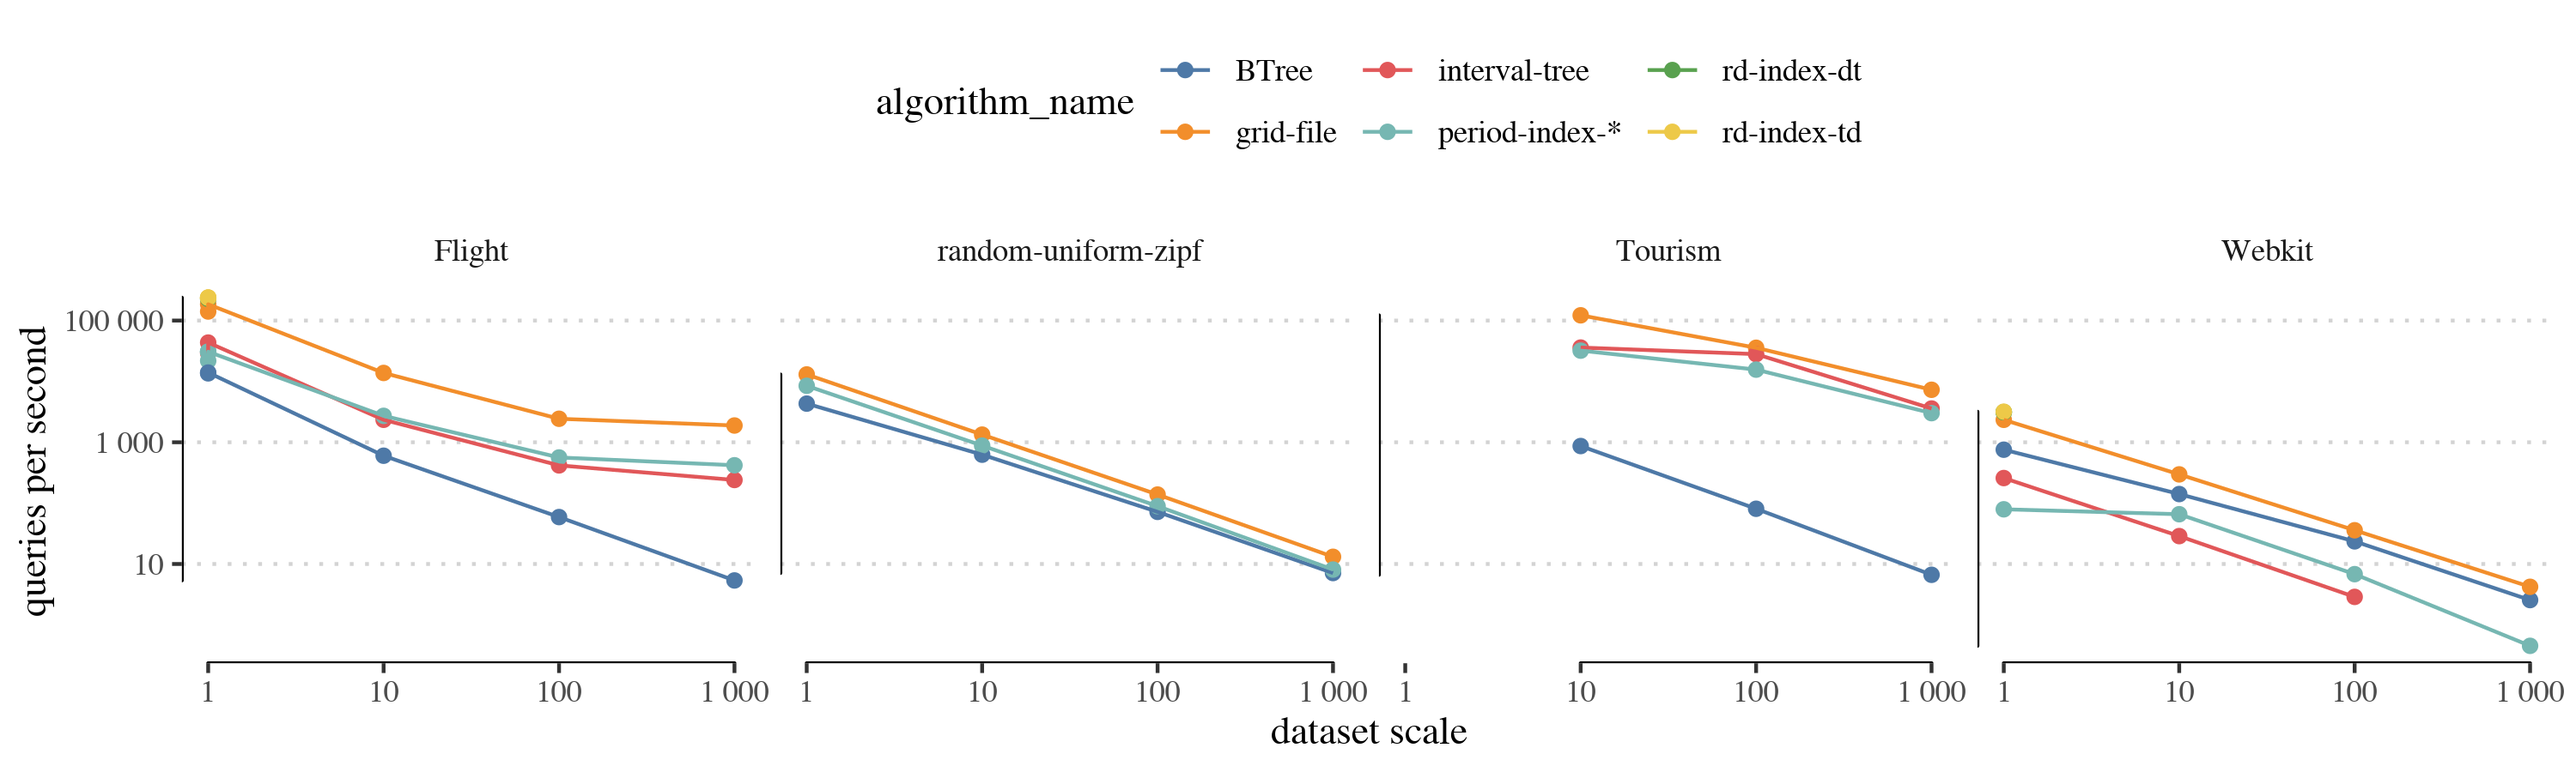
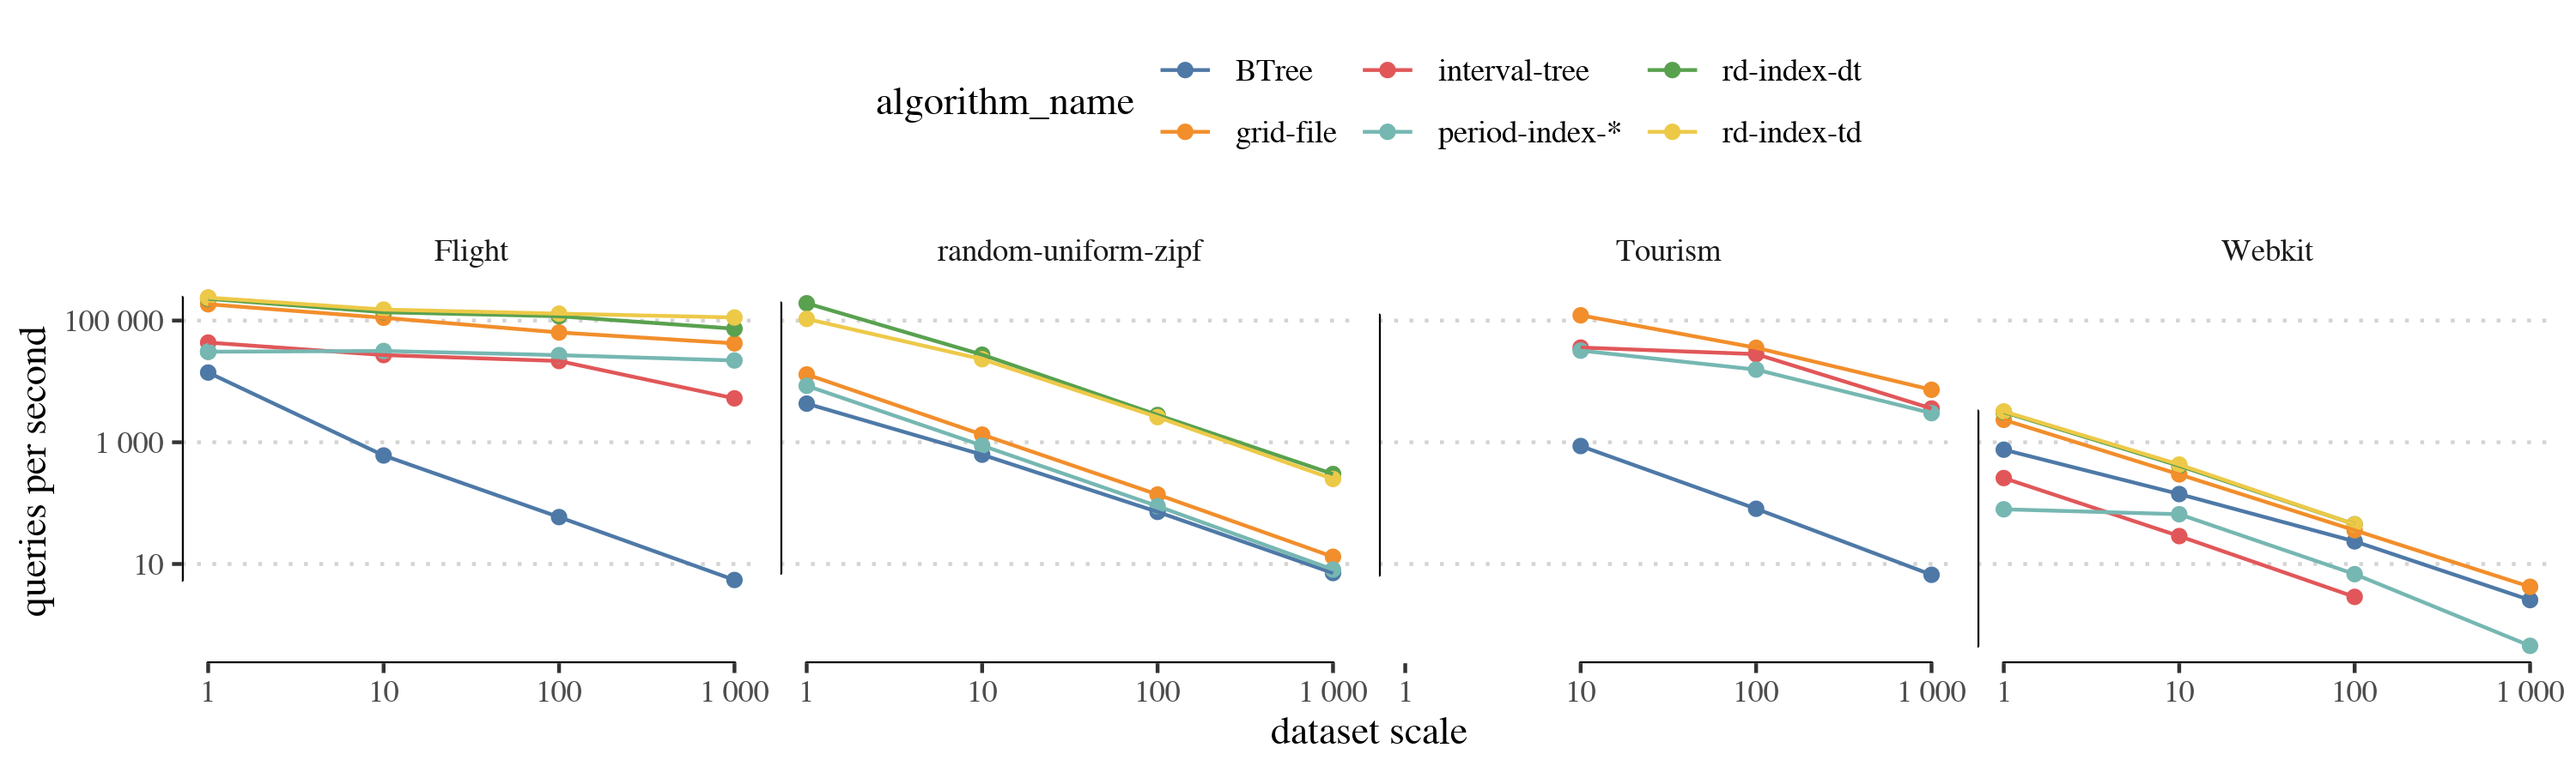
Update the observations on dimension ordering

diff --git a/paper/temporal-index.tex b/paper/temporal-index.tex
@@ -45,11 +45,19 @@
 \newcommand{\argmax}{\operatorname{argmax}}
 \newcommand{\argmin}{\operatorname{argmin}}
 
+% \definecolor{firstcolor}{HTML}{FDE725}
+% \definecolor{secondcolor}{HTML}{5DC863}
+% \definecolor{thirdcolor}{HTML}{21908C}
+% \definecolor{fourthcolor}{HTML}{3B528B}
+% \definecolor{fifthcolor}{HTML}{440154}
+
+
 \definecolor{firstcolor}{HTML}{FDE725}
-\definecolor{secondcolor}{HTML}{5DC863}
-\definecolor{thirdcolor}{HTML}{21908C}
-\definecolor{fourthcolor}{HTML}{3B528B}
-\definecolor{fifthcolor}{HTML}{440154}
+\definecolor{secondcolor}{HTML}{7AD151}
+\definecolor{thirdcolor}{HTML}{22A884}
+\definecolor{fourthcolor}{HTML}{2A788E}
+\definecolor{fifthcolor}{HTML}{414487}
+\definecolor{sixthcolor}{HTML}{440154}
 
 %%%%%%%%%%%%%%%%%%%%%%%%%%%%%%%%%%%%%%%%%%%%%%%%%%%%%%%%%%%%%%%%%%%%%%%%%%%%%%%%%
 
@@ -709,7 +717,7 @@ supported by our index structure.
 In this analysis we assume that the index is built by partitioning first in the time dimension,
 and then in the duration dimension.
 The choice of the order of this partitioning affects the practical performance, as we will discuss
-in Section~\ref{sec:experiments}.
+in Section~\ref{sec:experiments} (Figure~\ref{fig:param-dependency}).
 Nonetheless, the results in this section hold for both dimension orderings.
 
 \begin{theorem}
@@ -954,11 +962,12 @@ write them to a file.
   % where it is an order of magnitude slower, although the ranking remains the same.
 	\caption{Performance attained by the tested indices on different workloads, in terms of queries per second.
 		The color of each cell encodes the ranking of algorithms for a given dataset and workload combination:
-		\crule[firstcolor]{.5em}{1em} first,
-		\crule[secondcolor]{.5em}{1em} second,
-		\crule[thirdcolor]{.5em}{1em} third,
-		\crule[fourthcolor]{.5em}{1em} fourth,
-		and \crule[fifthcolor]{.5em}{1em} last.
+		\crule[firstcolor]{.5em}{1em}~first,
+		\crule[secondcolor]{.5em}{1em}~second,
+		\crule[thirdcolor]{.5em}{1em}~third,
+		\crule[fourthcolor]{.5em}{1em}~fourth,
+		\crule[fifthcolor]{.5em}{1em}~fifth,
+		and \crule[sixthcolor]{.5em}{1em}~last.
 		With \dataset{UZ} we denote interval sets with Uniform distribution of start times and Zipf
 		distribution of durations, with \dataset{UU} we refer to sets of intervals with Uniform distribution
 		for both the start time and the duration, and with \dataset{CZ} we denote intervals with
@@ -978,6 +987,11 @@ Table~\ref{tbl:overview-qps} reports an overview
 on the performance, in terms of queries per second, of
 different index structures under the different combinations of dataset/query workload.
 For index structures that take parameters, we report on the best configuration
+\mc{The performance of \ours with the two ordering variants is rather similar across
+all datasets. This is because we are reporting the results for the configuration
+with the best page size. For a fixed page size, the difference introduced by the
+ordering of dimensions can be up to three orders of magnitude, as
+will be discussed in Figure~\ref{fig:param-dependency}.}
 
 We remark that the overall difference in throughput for different workloads is
 due to the different output sizes: \qdo queries are in general less selective than \qrd queries,
@@ -1142,6 +1156,23 @@ thus increasing the running time.
 Conversely, the performance improves with the page size for \qro queries.
 In this case having fewer duration columns means that fewer groups of cells
 will need to be queried, thus improving performance.
+
+\mc{
+\begin{itemize}
+\item For a fixed page size, the gap between the two orderings is up to
+  three orders of magnitude
+\item I can't explain the behaviour for time only queries\dots I would
+	expect the time-duration order to perform better at high page counts (as it does)
+	and the duration-time order to perform better at low/intermediate page
+	counts, since then we have few columns to explore
+\item It is true, however, that the time part of the query is also constrained
+	by the duration part of the query: to evaluate the overlap with the query
+	we have to consider both the start and end times, but their relationship is
+	dictated by the duration: in this respect having the partitioning by
+	duration also helps in reducing the number of evaluated intervals!
+\item From the figure we can see that the behaviour is dictated by the duration part of the queries
+\end{itemize}
+}
 
 \section{Scalability with respect to the input size}
 \label{sec:scalability}

diff --git a/paper/qps.tex b/paper/qps.tex
@@ -23,7 +23,7 @@ Flight & UU & U & \cellcolor[HTML]{FDE725}{\textcolor{black}{\underline{238\,095
 \addlinespace
 Webkit & - & U & \cellcolor[HTML]{7AD151}{\textcolor{black}{2\,541 {\footnotesize(x\,36)}}} & \cellcolor[HTML]{22A884}{\textcolor{white}{2\,534 {\footnotesize(x\,36)}}} & \cellcolor[HTML]{2A788E}{\textcolor{white}{1\,941 {\footnotesize(x\,28)}}} & \cellcolor[HTML]{FDE725}{\textcolor{black}{\underline{3\,451} {\footnotesize(x\,49)}}} & \cellcolor[HTML]{440154}{\textcolor{white}{70}} & \cellcolor[HTML]{414487}{\textcolor{white}{160 {\footnotesize(x\,2)}}}\\
 Webkit & UU & - & \cellcolor[HTML]{22A884}{\textcolor{white}{403 {\footnotesize(x\,9)}}} & \cellcolor[HTML]{FDE725}{\textcolor{black}{\underline{470} {\footnotesize(x\,10)}}} & \cellcolor[HTML]{7AD151}{\textcolor{black}{461 {\footnotesize(x\,10)}}} & \cellcolor[HTML]{440154}{\textcolor{white}{47}} & \cellcolor[HTML]{414487}{\textcolor{white}{83 {\footnotesize(x\,2)}}} & \cellcolor[HTML]{2A788E}{\textcolor{white}{386 {\footnotesize(x\,8)}}}\\
-Webkit & UU & U & \cellcolor[HTML]{FDE725}{\textcolor{black}{\underline{3\,179} {\footnotesize(x\,40)}}} & \cellcolor[HTML]{7AD151}{\textcolor{black}{3\,125 {\footnotesize(x\,39)}}} & \cellcolor[HTML]{22A884}{\textcolor{white}{2\,339 {\footnotesize(x\,30)}}} & \cellcolor[HTML]{2A788E}{\textcolor{white}{755 {\footnotesize(x\,10)}}} & \cellcolor[HTML]{440154}{\textcolor{white}{79}} & \cellcolor[HTML]{414487}{\textcolor{white}{258 {\footnotesize(x\,3)}}}\\
+Webkit & UU & U & \cellcolor[HTML]{FDE725}{\textcolor{black}{\underline{3\,214} {\footnotesize(x\,41)}}} & \cellcolor[HTML]{7AD151}{\textcolor{black}{3\,125 {\footnotesize(x\,39)}}} & \cellcolor[HTML]{22A884}{\textcolor{white}{2\,339 {\footnotesize(x\,30)}}} & \cellcolor[HTML]{2A788E}{\textcolor{white}{755 {\footnotesize(x\,10)}}} & \cellcolor[HTML]{440154}{\textcolor{white}{79}} & \cellcolor[HTML]{414487}{\textcolor{white}{258 {\footnotesize(x\,3)}}}\\
 \addlinespace
 Tourism & - & U & \cellcolor[HTML]{22A884}{\textcolor{white}{6\,234 {\footnotesize(x\,10)}}} & \cellcolor[HTML]{7AD151}{\textcolor{black}{6\,305 {\footnotesize(x\,10)}}} & \cellcolor[HTML]{2A788E}{\textcolor{white}{5\,171 {\footnotesize(x\,8)}}} & \cellcolor[HTML]{FDE725}{\textcolor{black}{\underline{5\,000\,000} {\footnotesize(x\,7 922)}}} & \cellcolor[HTML]{414487}{\textcolor{white}{758 {\footnotesize(x\,1)}}} & \cellcolor[HTML]{440154}{\textcolor{white}{631}}\\
 Tourism & UU & - & \cellcolor[HTML]{22A884}{\textcolor{white}{27\,322 {\footnotesize(x\,20)}}} & \cellcolor[HTML]{FDE725}{\textcolor{black}{\underline{28\,249} {\footnotesize(x\,21)}}} & \cellcolor[HTML]{2A788E}{\textcolor{white}{16\,340 {\footnotesize(x\,12)}}} & \cellcolor[HTML]{440154}{\textcolor{white}{1\,347}} & \cellcolor[HTML]{414487}{\textcolor{white}{6\,460 {\footnotesize(x\,5)}}} & \cellcolor[HTML]{7AD151}{\textcolor{black}{28\,090 {\footnotesize(x\,21)}}}\\
